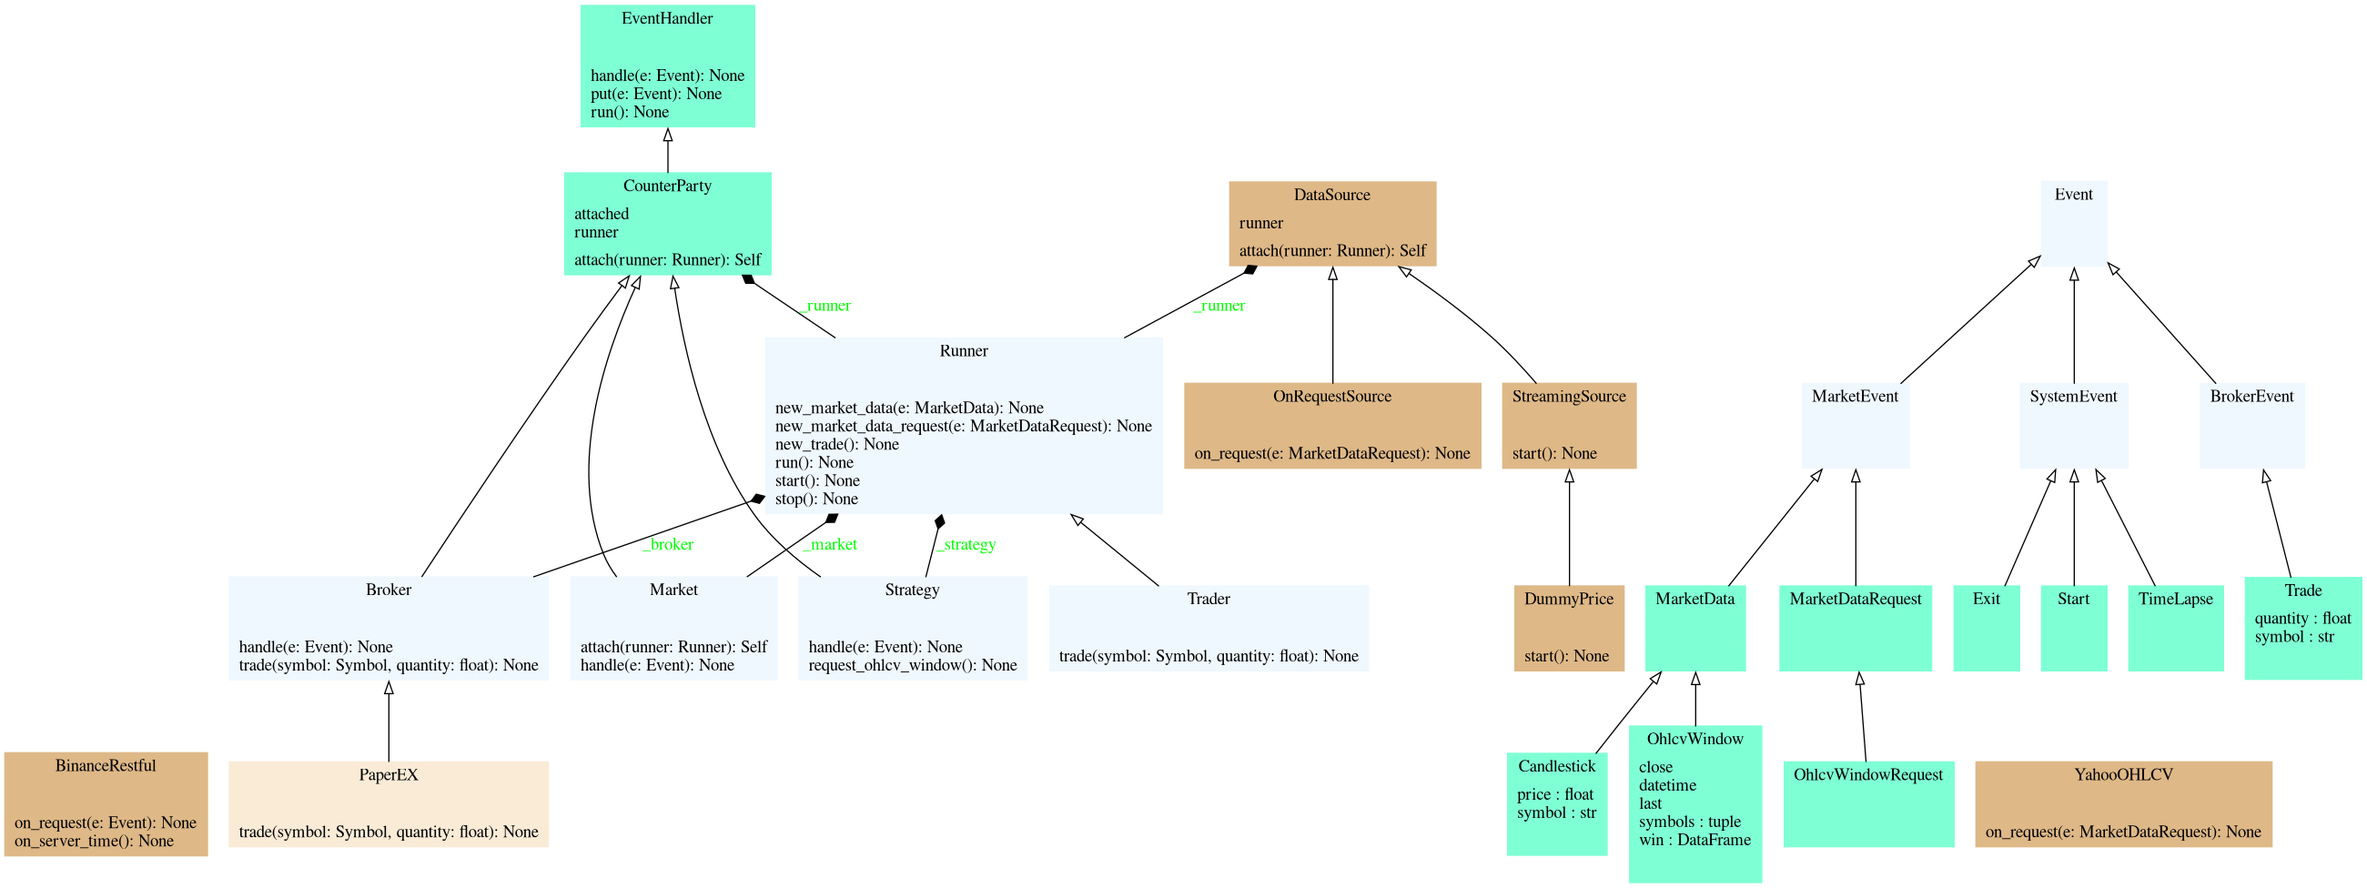
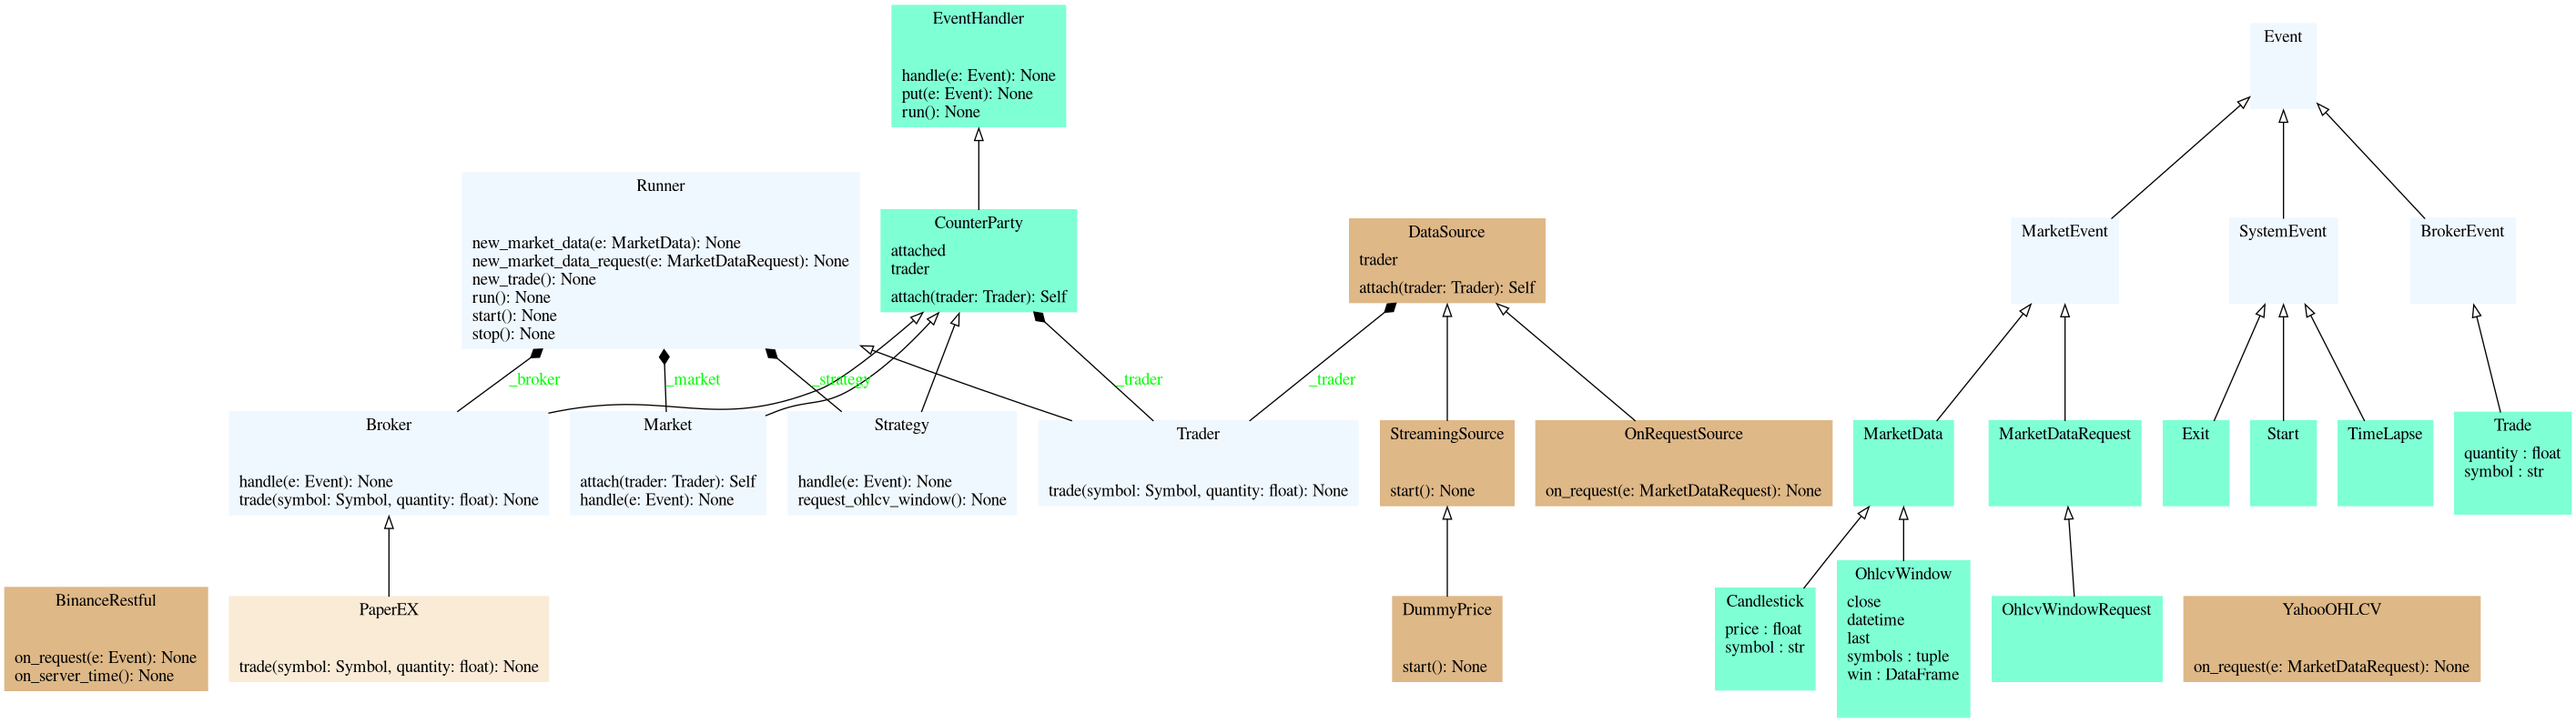
rft: CounterParty attach to Trader, Strategy teach trader how to trade

diff --git a/trbox/runner/__init__.py b/trbox/runner/__init__.py
@@ -17,12 +17,10 @@ class Runner:
                  strategy: Strategy,
                  market: Market,
                  broker: Broker):
-        self._strategy: Strategy = strategy.attach(self)
-        self._market: Market = market.attach(self)
-        self._broker: Broker = broker.attach(self)
+        self._strategy: Strategy = strategy
+        self._market: Market = market
+        self._broker: Broker = broker
         self._handlers = [self._strategy, self._market, self._broker]
-        for handler in self._handlers:
-            assert handler.attached
 
     # event routing
     def new_market_data(self, e: MarketData) -> None:
@@ -30,10 +28,6 @@ class Runner:
 
     def new_market_data_request(self, e: MarketDataRequest) -> None:
         self._market.put(e)
-
-    def new_trade(self) -> None:
-        # TODO may be trade should be package as Event as well
-        pass
 
     # system controls
     def start(self) -> None:
@@ -71,6 +65,10 @@ class Runner:
 class Trader(Runner):
     def __init__(self, **kwargs: Any):
         super().__init__(**kwargs)
+        for handler in self._handlers:
+            handler.attach(self)
+        for handler in self._handlers:
+            assert handler.attached
 
     # investment decision
     def trade(self, symbol: Symbol, quantity: float) -> None:

diff --git a/trbox/event/handler.py b/trbox/event/handler.py
@@ -3,7 +3,7 @@ from queue import Queue
 from typing import Self
 from trbox.event import Event
 from trbox.event.system import Exit
-from trbox.runner import Runner
+from trbox.runner import Trader
 from logging import debug
 
 
@@ -47,18 +47,22 @@ class EventHandler(ABC):
 
 
 class CounterParty(EventHandler, ABC):
+    '''
+    Middle class that is attached to a Trader
+    '''
+
     def __init__(self) -> None:
         super().__init__()
 
-    # EventHandler must attach to a Runner to function properly
-    def attach(self, runner: Runner) -> Self:
-        self._runner = runner
+    # CounterParty must attach to a Trader to function properly
+    def attach(self, trader: Trader) -> Self:
+        self._trader = trader
         return self
 
     @property
-    def runner(self) -> Runner:
-        return self._runner
+    def trader(self) -> Trader:
+        return self._trader
 
     @property
     def attached(self) -> bool:
-        return isinstance(self._runner, Runner)
+        return isinstance(self._trader, Trader)

diff --git a/trbox/market/__init__.py b/trbox/market/__init__.py
@@ -4,7 +4,7 @@ from trbox.event import Event
 from trbox.event.handler import CounterParty
 from trbox.event.market import MarketDataRequest
 from trbox.event.system import Start
-from trbox.runner import Runner
+from trbox.runner import Trader
 from trbox.market.datasource import DataSource
 from trbox.market.datasource.streaming import StreamingSource
 from trbox.market.datasource.onrequest import OnRequestSource
@@ -16,10 +16,11 @@ class Market(CounterParty):
         super().__init__()
         self._source = source
 
-    def attach(self, runner: Runner) -> Self:
+    def attach(self, trader: Trader
+               ) -> Self:
         # this will also attach DataSource in Market is init-ed
-        self._source.attach(runner)
-        return super().attach(runner)
+        self._source.attach(trader)
+        return super().attach(trader)
 
     def handle(self, e: Event) -> None:
         # listen to system Start event

diff --git a/tests/test_basic.py b/tests/test_basic.py
@@ -15,7 +15,7 @@ def test_dummy():
     # on_tick
     def dummy_action(self: Strategy, e: Candlestick):
         info(f'St: price={e.price}')
-        self.runner.trade(SYMBOL, +10)
+        self.trader.trade(SYMBOL, +10)
 
     Trader(
         strategy=Strategy(
@@ -37,7 +37,7 @@ def test_historical_data(start: Timestamp | str | None,
     # on_window
     def dummy_action(self: Strategy, e: OhlcvWindow):
         assert e.win.shape == (length, 10)
-        self.runner.trade(SYMBOLS[0], +10)
+        self.trader.trade(SYMBOLS[0], +10)
         info(f'St: date={e.datetime} last={e.last.shape}, close={e.close}')
 
     Trader(

diff --git a/trbox/market/datasource/streaming/dummy.py b/trbox/market/datasource/streaming/dummy.py
@@ -26,10 +26,10 @@ class DummyPrice(StreamingSource):
         def worker() -> None:
             # gen random price to simulate live market
             for i in range(self._n):
-                self.runner.new_market_data(Candlestick(self._symbol, i))
+                self.trader.new_market_data(Candlestick(self._symbol, i))
                 time.sleep(self._delay)
             # simulate the end of data
-            self.runner.stop()
+            self.trader.stop()
         # deamon thread will not block program from exiting
         t = Thread(target=worker, daemon=True)
         t.start()

diff --git a/trbox/market/datasource/__init__.py b/trbox/market/datasource/__init__.py
@@ -1,5 +1,5 @@
 from typing import Self
-from trbox.runner import Runner
+from trbox.runner import Trader
 
 
 class DataSource:
@@ -9,10 +9,10 @@ class DataSource:
     to other handlers.
     '''
 
-    def attach(self, runner: Runner) -> Self:
-        self._runner = runner
+    def attach(self, trader: Trader) -> Self:
+        self._trader = trader
         return self
 
     @property
-    def runner(self) -> Runner:
-        return self._runner
+    def trader(self) -> Trader:
+        return self._trader

diff --git a/trbox/market/datasource/onrequest/localcsv.py b/trbox/market/datasource/onrequest/localcsv.py
@@ -42,6 +42,6 @@ class YahooOHLCV(OnRequestSource):
         if isinstance(e, OhlcvWindowRequest):
             try:
                 df = next(self._window_generator)
-                self.runner.new_market_data(OhlcvWindow(self._symbols, df))
+                self.trader.new_market_data(OhlcvWindow(self._symbols, df))
             except StopIteration:
-                self.runner.stop()
+                self.trader.stop()

diff --git a/trbox/strategy/__init__.py b/trbox/strategy/__init__.py
@@ -18,7 +18,7 @@ class Strategy(CounterParty):
 
     # operations
     def request_ohlcv_window(self) -> None:
-        self.runner.new_market_data_request(OhlcvWindowRequest())
+        self.trader.new_market_data_request(OhlcvWindowRequest())
 
     def handle(self, e: Event) -> None:
         # for live streaming data
